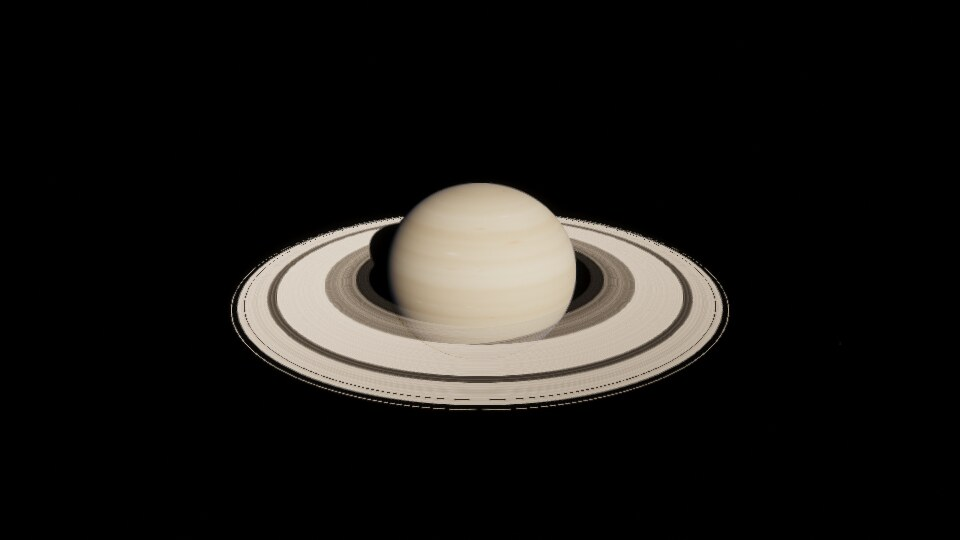
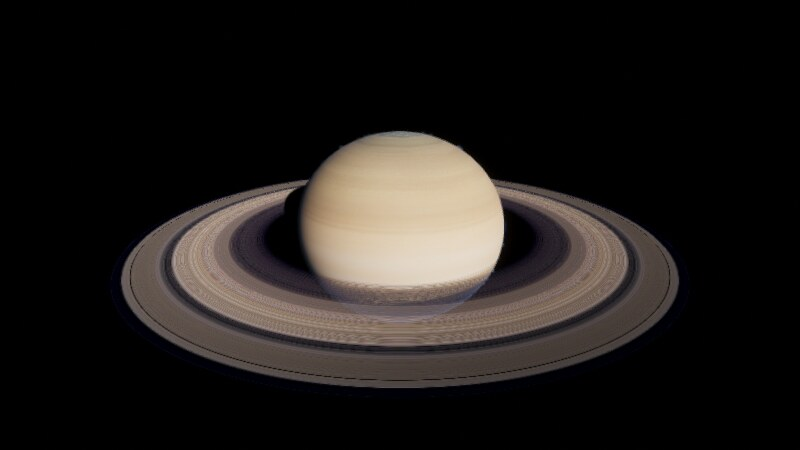
README and in-app credits for real data; refreshed gallery

Changed region(s): [[0.125, 0.28, 0.875, 0.8711]]

diff --git a/src/ui.js b/src/ui.js
@@ -74,7 +74,15 @@ export class UI {
       <tr><td>Space , . J \\</td><td>Pause, slower, faster, reverse, real time</td></tr>
       <tr><td>T</td><td>Guided tour (T again: next stop)</td></tr><tr><td>0 – 9</td><td>Sun, Mercury … Pluto</td></tr><tr><td>Tab</td><td>System browser</td></tr><tr><td>O, N, K</td><td>Toggle orbits, labels, constellations</td></tr>
       <tr><td>[ ]</td><td>Exposure down / up</td></tr><tr><td>Z X</td><td>Zoom field of view</td></tr><tr><td>F2, F3</td><td>Hide interface, GPU timings</td></tr><tr><td>P</td><td>Save screenshot</td></tr>
-      </table><p class="dim">Press H or ? to close.</p>`;
+      </table>
+      <h3 style="margin-top:12px">Data and credits</h3>
+      <p class="dim credits">Earth: NASA Blue Marble NG, Black Marble 2016, Blue Marble clouds (NASA Earth Observatory); ETOPO 2022 (NOAA); Natural Earth.
+      Moon: LRO LROC WAC and LOLA (NASA SVS CGI Moon Kit). Mars: Viking MDIM 2.1 and MOLA (USGS Astrogeology). Mercury, moons, Pluto, Ceres: USGS Astrogeology mosaics from MESSENGER, Galileo, Voyager, Cassini, New Horizons and Dawn.
+      Gas giants, Venus clouds and Saturn's rings: Solar System Scope textures (CC BY 4.0).
+      Stars: HYG database v4.4, David Nash / astronexus.com (CC BY-SA 4.0). Constellation figures: Stellarium (GPL).
+      Milky Way: ESO/S. Brunier panorama (CC BY 4.0). Exoplanets: NASA Exoplanet Archive.
+      Ephemerides: JPL approximate planetary elements (E. M. Standish), J. Meeus, Astronomical Algorithms.</p>
+      <p class="dim">Press H or ? to close.</p>`;
     this.hint = root.appendChild(el('div', 'hint', 'Drag to look · W A S D to fly · double click an object to travel · <b>H</b> for help'));
     setTimeout(() => this.hint.classList.add('fade'), 9000);
     // on-screen fly buttons for touch screens

diff --git a/src/ui.css b/src/ui.css
@@ -68,3 +68,5 @@ select { background: rgba(20, 26, 36, 0.9); color: #dfe6ee; border: 1px solid rg
 .caption { left: 50%; top: 70px; transform: translateX(-50%); max-width: 560px; text-align: center; }
 .caption .ct { font-size: 17px; font-weight: 600; color: #fff; margin-bottom: 4px; }
 .caption div { margin: 2px 0; }
+.help { max-height: 86vh; overflow: auto; }
+.credits { font-size: 11.5px; line-height: 1.5; }

diff --git a/README.md b/README.md
@@ -5,18 +5,18 @@ You can fly from a planet's surface out to intergalactic space without a loading
 
 ## Gallery
 
-All of these are unedited frames from the app, rendered headless on this machine (software GPU, reduced settings).
+Unedited frames from the app, rendered headless on a machine without a GPU (software renderer, reduced settings).
 
 | | |
 | --- | --- |
-| ![Earth](docs/earth.jpg) Earth-like planet, clouds and terminator | ![Mars](docs/mars.jpg) Mars surface, dust sky with blue solar aureole |
-| ![Moon](docs/moon.jpg) Moon near the terminator | ![Sunset](docs/land3.jpg) Sunset on Earth |
-| ![Saturn](docs/saturn.jpg) Saturn in 2017 | ![Jupiter](docs/jupiter.jpg) Jupiter |
-| ![Milky Way](docs/mw.jpg) Milky Way from the Solar System | ![Andromeda](docs/m31.jpg) Andromeda |
-| ![Orion](docs/orion.jpg) Orion Nebula | ![Black hole](docs/bh.jpg) Sagittarius A* |
-| ![Cygnus X-1](docs/cygx1.jpg) Cygnus X-1 lensing its supergiant companion | ![Deep field](docs/web.jpg) Intergalactic deep field |
-| ![Titan](docs/titan.jpg) Surface of Titan under its haze | ![Galaxy](docs/galaxy2.jpg) Milky Way from above |
-| ![Night](docs/night.jpg) City lights on the night side | ![Bodies](docs/sheet.jpg) Mercury, Venus, Io, Europa, Titan, Uranus, Neptune, Pluto, Ganymede |
+| ![Earth](docs/earth.jpg) Earth with real colour, elevation and clouds | ![Europe at night](docs/europe_night.jpg) Europe at night (Black Marble city lights) |
+| ![Eclipse](docs/eclipse2024.jpg) Totality, 8 April 2024, from the computed centreline | ![Milky Way](docs/milkyway_atacama.jpg) The real Milky Way core from the Atacama |
+| ![Alps](docs/alps.jpg) The Alps: real elevation plus procedural detail | ![Valles Marineris](docs/valles.jpg) Valles Marineris in the afternoon |
+| ![Aurora](docs/aurora.jpg) Aurora over northern Canada | ![Moon](docs/moon_surface.jpg) Near Tycho, Earth in the sky |
+| ![Saturn](docs/saturn.jpg) Saturn in 2017 with Cassini ring transparency | ![Bodies](docs/bodies.jpg) Mercury to Mars from real maps |
+| ![TRAPPIST-1 e](docs/trappist.jpg) TRAPPIST-1 e under its red dwarf | ![Black hole](docs/bh.jpg) Sagittarius A* |
+| ![Cygnus X-1](docs/cygx1.jpg) Cygnus X-1 lensing its supergiant companion | ![Orion](docs/orion.jpg) Orion Nebula |
+| ![Andromeda](docs/m31.jpg) Andromeda | ![Galaxy](docs/galaxy2.jpg) The Milky Way from above |
 
 ## Run
 
@@ -26,7 +26,8 @@ All of these are unedited frames from the app, rendered headless on this machine
 
 Needs a browser with WebGL2 and float render targets (any desktop Chrome, Firefox or Edge with a GPU).
 Quality presets: add `?q=low`, `?q=medium` or `?q=high` (default). Dynamic resolution is on by default.
-Start somewhere else with `?goto=Saturn&date=2017-06-01` (any name the search box accepts).
+Start somewhere else with `?goto=Saturn&date=2017-06-01` (any name the search box accepts), or on a surface with
+`?goto=Earth&land=46.0,7.6&date=2024-06-20T16:30Z` (latitude, longitude). The Link button copies such a URL for where you are.
 
 ## Controls
 
@@ -43,10 +44,10 @@ Start somewhere else with `?goto=Saturn&date=2017-06-01` (any name the search bo
 | Space, `,` `.` J `\` | Pause, slower, faster, reverse, real time |
 | 0 to 9 | Sun, Mercury ... Pluto |
 | Tab | System browser |
-| O, N | Orbits, labels |
+| O, N, K | Orbits, labels, constellation figures |
 | `[` `]` | Exposure |
 | Z, X | Zoom the field of view |
-| F2, P | Hide the interface, save a screenshot |
+| F2, F3, P | Hide the interface, GPU timings per pass, save a screenshot |
 | H | Help |
 
 On touch screens: one finger looks around, pinch moves toward or away from the selection, and two on-screen buttons fly forward and back.
@@ -55,39 +56,57 @@ The Places menu jumps to planets, nebulae, black holes and galaxies. Explore pic
 
 ## What is simulated
 
-- **Scale hierarchy.** Camera position is kept at three levels (Mpc in the universe, parsecs in a galaxy,
-  metres in a star system) in double precision, and everything is drawn relative to the camera.
-- **Large scale structure.** Galaxies are generated in a cosmic web (filaments, clusters, voids) with Hubble types
-  (E, S0, S, SB, Irr). The Local Group and a few famous galaxies are placed at their real positions.
-- **Galaxies.** One volumetric light model (bulge, bar, disk, logarithmic spiral arms, young blue populations,
-  HII regions, dust with reddening) is ray marched both for distant galaxies and for the sky seen from inside.
-- **Stars.** Generated from the local luminosity function in magnitude-binned grids, with main sequence, giant,
-  supergiant, white dwarf, neutron star and black hole populations. Brightness is photometric: apparent magnitude
-  to flux to pixel energy, with blackbody colours.
-- **Star systems.** The Solar System uses real orbital elements, masses, radii, tilts and atmospheres (planets,
-  25 moons, dwarf planets, Halley's comet, belts). Other systems are generated: binaries, rocky planets, gas and ice
-  giants, moons, rings, belts, with mass-radius relations, equilibrium temperature, greenhouse and atmosphere retention.
-  All bodies move on Kepler orbits and rotate; time can run from real time to millions of years per second.
-- **Planet surfaces.** A quadtree cube-sphere with GPU baked tiles (height, normals, albedo). Noise is evaluated
-  per octave in tile-local coordinates supplied in double precision, so detail holds from orbit down to centimetres.
-  Continents, shelves, mountain belts with erosion-like ridges, hills, dunes, craters, maria, ice fractures, lava,
-  climate-driven biomes, snow, sea ice and city lights.
-- **Atmospheres.** Physically based scattering (transmittance, multiple scattering and sky irradiance LUTs after
-  Hillaire 2020), with Rayleigh and Mie coefficients derived from pressure, temperature, gravity and composition.
-  Ozone and methane absorption, dust with wavelength-dependent phase (blue Martian sunsets), planet shadow, eclipses.
-- **Clouds.** Volumetric ray marched cloud layer driven by a baked weather map with cyclones.
-- **Water.** Depth-dependent absorption and scattering, Fresnel reflection, sun glint, animated waves up close.
-- **Gas giants.** Zonal bands with turbulence and storms, oblate shape, rings with planet shadow and ring shadow.
-- **Stars up close.** Limb darkening, granulation, spots, corona and prominences (visible during eclipses).
-- **Black holes.** Ray traced Schwarzschild geodesics with lensing of the background, photon ring, and an accretion
-  disk with Doppler beaming and gravitational redshift. Sagittarius A* and Cygnus X-1 are included.
-- **Nebulae.** Volumetric emission nebulae, planetary nebulae and supernova remnants.
-- **Camera.** HDR pipeline with auto exposure, bloom, diffraction spikes, ACES tone mapping, FXAA.
+**Real data**
+- **Stars:** 91,793 stars from the HYG catalogue (to magnitude 9.5) at their real 3D positions, with names,
+  spectral types, search and visits. Constellation figures (K) are drawn in 3D, so they distort as you travel.
+  Procedural stars fill in only where the catalogue is incomplete.
+- **Solar System surfaces:** Earth (Blue Marble colour, ETOPO elevation and bathymetry, coastlines, Black Marble city
+  lights, real cloud cover), the Moon (LROC colour, LOLA elevation), Mars (Viking colour, MOLA elevation), Mercury,
+  Io, Europa, Ganymede, Callisto, Titan, Enceladus, Pluto, Charon, Ceres, the giant planets and Saturn's rings.
+  Grayscale mosaics are calibrated to each body's real albedo. Procedural detail continues below map resolution
+  (forest and fields, rock on steep slopes, snow line, ridges).
+- **Ephemerides:** planets from JPL approximate elements with secular rates, the Moon from Meeus' lunar theory,
+  Jupiter's Galilean moons from Meeus ch. 44, IAU pole directions and prime meridians, Earth rotation from sidereal
+  time. Phases and eclipses happen when they really do: eclipse paths land within ~20 to 65 km of NASA's
+  greatest-eclipse points for 2017, 2024, 2026 and 2027.
+- **Exoplanets:** observed systems at Proxima Centauri, TRAPPIST-1, Barnard's Star, 51 Pegasi, Epsilon Eridani and
+  Tau Ceti; Sirius B; asteroids and dwarf planets (Vesta, Pallas, Hygiea, Juno, Eros, Bennu, Makemake, Haumea, Sedna).
+- **Milky Way from near the Sun:** the ESO all-sky panorama with point stars removed, blended into the procedural
+  galaxy model a few hundred parsecs out.
+
+**Simulation and rendering**
+- **Scale hierarchy:** camera position is kept at three levels (Mpc, parsecs, metres) in double precision and
+  everything is drawn relative to the camera, from 1.7 m above a surface to intergalactic space.
+- **Procedural universe:** galaxies in a cosmic web with Hubble types, stars from the luminosity function in
+  magnitude-binned grids, and star systems with binaries, rocky and giant planets, moons, rings and belts.
+- **Planet surfaces:** a quadtree cube-sphere with GPU baked tiles; noise is evaluated per octave in tile-local
+  coordinates supplied in double precision, so detail holds down to centimetres.
+- **Atmospheres:** physically based scattering (Hillaire 2020 LUTs) with coefficients from pressure, temperature,
+  gravity and composition; ozone and methane absorption; Martian dust with wavelength-dependent phase; planet shadow,
+  eclipses and cloud shadows in the air (crepuscular rays). Aurora around the real geomagnetic pole.
+- **Clouds:** volumetric ray marching driven by the real cloud map on Earth and weather maps elsewhere.
+- **Lighting:** eclipses with penumbra, ring shadows, terrain self-shadowing, planetshine (earthshine on the Moon,
+  moonlight at night), Lommel-Seeliger scattering on airless bodies.
+- **Exotic objects:** ray traced Schwarzschild black holes with Doppler-beamed accretion disks, volumetric nebulae,
+  coronae, comet tails, pulsar beams.
+- **Camera:** HDR pipeline, auto exposure that switches to the corona during totality, bloom, ACES tone mapping and
+  temporal anti-aliasing with sub-pixel jitter.
+- **Performance:** shaders compile in parallel behind a loading screen; atmosphere and clouds render at half
+  resolution with temporal accumulation when they fill the screen; exposure and ground height readbacks are
+  asynchronous; the galaxy sky cube rebuilds in strips; dynamic resolution aims for 55+ fps.
+
+**Interface:** search (planets, moons, named stars, nebulae, galaxies), Places menu, guided tour (T), system browser,
+date picker, shareable location links, latitude/longitude readout, GPU timing overlay (F3), settings saved between visits.
 
 ## Layout
 
     index.html
     src/main.js        entry point, quality settings, test hooks
+    src/assets.js      map and catalogue loading
+    src/ephem.js       planetary, lunar and Galilean ephemerides, IAU rotation
+    src/realsystems.js observed exoplanet systems
+    src/tour.js        guided tour
+    data/              real data (see data/README.md for sources and licences)
     src/nav.js         camera, world state, go-to, picking, level transitions
     src/render.js      frame pipeline and post processing
     src/planet.js      tile quadtree and surface shading
@@ -101,6 +120,7 @@ The Places menu jumps to planets, nebulae, black holes and galaxies. Explore pic
     src/exotic.js      black holes, coronae, nebulae
     src/ui.js, src/ui.css  interface
     tools/shot.mjs     headless screenshot harness (puppeteer-core + SwiftShader)
+    tools/data/        scripts that rebuild data/ from the original sources
 
 ## Testing
 
@@ -113,24 +133,21 @@ The harness runs frames until tile baking and exposure have settled, then saves 
 ## Decisions and limits
 
 - Raw WebGL2 was chosen over WebGPU so it runs everywhere and can be tested headless here.
-- This machine has no GPU. Everything was checked with SwiftShader at reduced settings, so frame rate and
-  driver behaviour on real GPUs are untested. If it is slow, use `?q=low`; dynamic resolution also kicks in below 24 fps.
-- Earth is procedural (Earth-like, not the real continents). Other Solar System bodies are tuned look-alikes with
-  real sizes, orbits, pole directions and atmospheres.
+- This machine has no GPU. Everything was checked with SwiftShader at reduced settings, so frame rate on real GPUs
+  (including the M5) is untested. Press F3 in the app to see GPU time per pass. If it is slow, use `?q=low`;
+  dynamic resolution also lowers the render scale below 48 fps.
 - Brightness is physical, so a sunlit planet hides the stars and deep space needs long exposures. Auto exposure
   handles this; `[` and `]` bias it. Galaxy and nebula surface brightness is boosted about 20 times to be visible.
+- Asteroid and dwarf planet orbits beyond the main planets use approximate elements, so their positions along the
+  orbit are not exact.
 
 ## Known gaps
 
+- Real elevation is ~10 km per pixel, so features like the Grand Canyon are not resolved; detail below that is procedural.
 - Terrain shadows are traced inside one tile only, so very long shadows can end at tile borders.
-- No vegetation, rocks or other meshes on the ground. Plains look flat from low altitude.
-- Clouds are a single volumetric layer driven by a baked weather map. From orbit they read as fairly flat sheets.
-- A faint vertical seam can show in the Milky Way glow where two faces of the sky cubemap meet.
+- No vegetation, rocks or other meshes on the ground.
+- Earth's cloud cover is a single static snapshot (it drifts slowly but does not evolve).
+- Aurora seen from orbit is streaky; from the ground it looks right.
+- In the very dark sky of a total eclipse a faint X-shaped sampling pattern can show.
 - Comet tails are camera-facing ribbons and look wrong from inside the tail.
-- Distant galaxies in the deep field are drawn as small blobs and can look like stars.
-- Auto exposure can hunt for a second or two when a very bright point source enters the frame.
-- No real star catalogue (only the Sun, Sgr A* and Cygnus X-1 are placed by hand), no relativistic effects apart from
-  black hole lensing, and orbits are Keplerian rather than n-body.
-- The default `?q=high` settings could not be smoke tested end to end here: the first frames take minutes on the software
-  renderer. Each setting was exercised separately in the gallery renders, and `tools/live.mjs` passes at reduced settings.
-- The 1120x630 sunset render for the gallery timed out on the software renderer. The gallery uses the 800x450 one.
+- Eclipse timing and paths are good to tens of kilometres, not to the second (no nutation, truncated lunar series).

diff --git a/data/README.md b/data/README.md
@@ -127,3 +127,15 @@ USGS maps come from `https://planetarymaps.usgs.gov/cgi-bin/mapserv` GetMap requ
   file path could be confirmed. It has relief shading baked in, so lighting from the height map will
   double up slightly.
 - Pluto and Charon colour (USGS global mosaics are panchromatic).
+
+## Milky Way: `milkyway.jpg`
+
+Source: ESO Milky Way panorama (eso0932a, ESO/S. Brunier), CC BY 4.0. 4096x2048, galactic coordinates,
+galactic centre in the middle, longitude increasing to the left. Point stars removed with 7x7 then 5x5 median
+filters so they are not counted twice against the star catalogue. Built by `tools/data/build_milkyway.sh`.
+
+## Height maps: `*_height16.png`
+
+The 16-bit grayscale height PNGs were repacked as 8-bit RGB (R = high byte, G = low byte) by
+`tools/data/pack_heights.py`, because browsers decode 16-bit PNGs to 8 bits. Decode with
+`v = (R*256 + G) / 65535` and the ranges in `manifest.json`.
